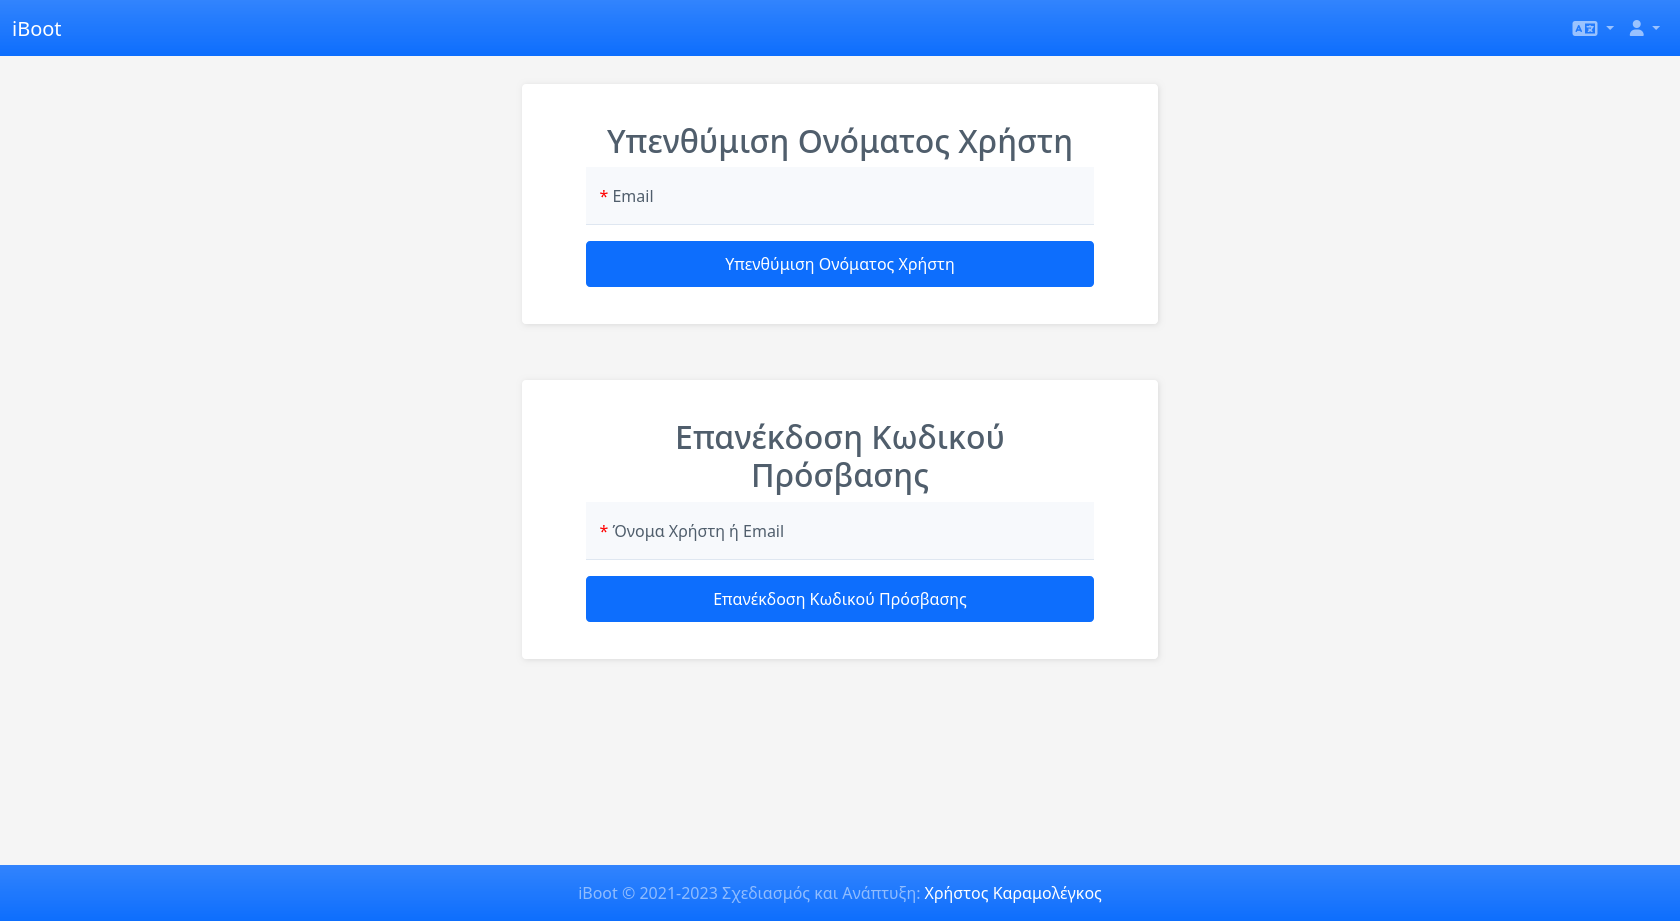
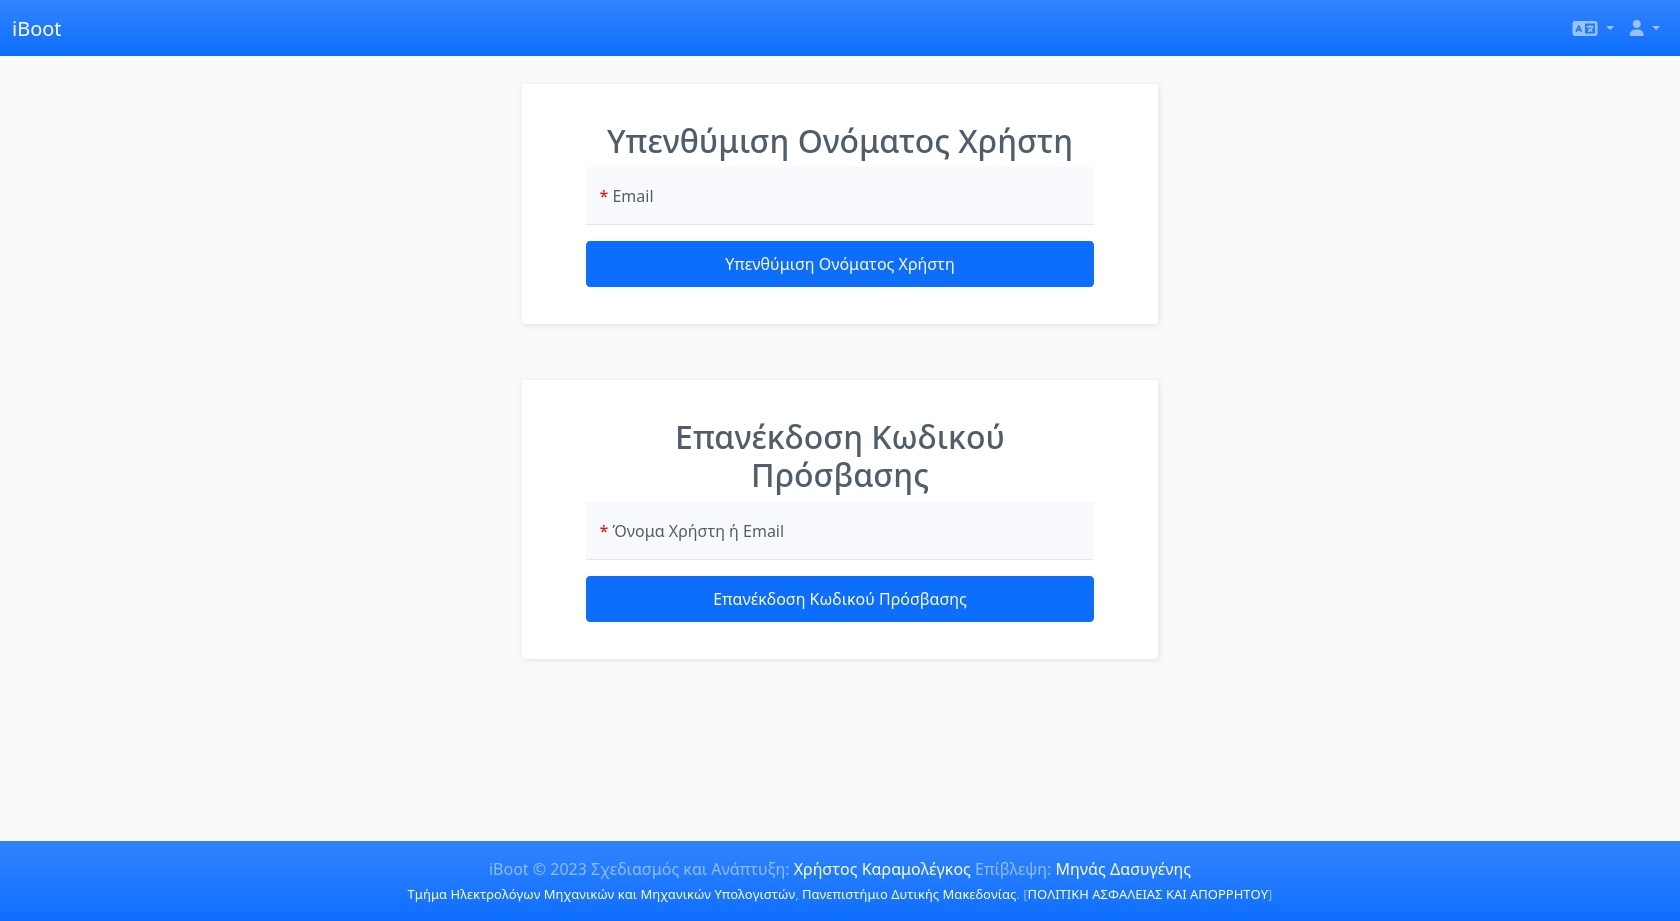
Retake screenshots because of footer update
Also add guest navbar

Changed region(s): [[0.0, 0.9121, 1.0, 1.0]]

diff --git a/Chapters/4-Website-User-Interface.tex b/Chapters/4-Website-User-Interface.tex
@@ -72,7 +72,13 @@
 	\label{fig:iBoot_nav_user}
 \end{figure}
 
-Οι επιλογές του αριστερού τμήματος της μπάρας πλοήγησης απουσιάζουν εντελώς όταν ο χρήστης είναι μη αυθεντικοποιημένος επισκέπτης. Εκείνος δηλαδή βλέπει μόνο το όνομα της εφαρμογής στο αριστερό μέρος της μπάρας πλοήγησης και στο δεξί μέρος της τον επιλογέα γλώσσας της εφαρμογής και την ομάδα επιλογών για πραγματοποίηση σύνδεσης και εγγραφής (αν αυτή είναι ενεργοποιημένη ως δυνατότητα του συστήματος).
+Οι επιλογές του αριστερού τμήματος της μπάρας πλοήγησης απουσιάζουν εντελώς όταν ο χρήστης είναι μη αυθεντικοποιημένος επισκέπτης, όπως φαίνεται στο σχήμα \ref{fig:iBoot_nav_guest}. Εκείνος δηλαδή βλέπει μόνο το όνομα της εφαρμογής στο αριστερό μέρος της μπάρας πλοήγησης και στο δεξί μέρος της τον επιλογέα γλώσσας της εφαρμογής και την ομάδα επιλογών για πραγματοποίηση σύνδεσης και εγγραφής (αν αυτή είναι ενεργοποιημένη ως δυνατότητα του συστήματος).
+\begin{figure}[ht]
+	\centering
+	\includegraphics[scale=0.25]{iBoot-nav_guest.png}
+	\caption{iBoot - Μενού Πλοήγησης Επισκέπτη}
+	\label{fig:iBoot_nav_guest}
+\end{figure}
 \FloatBarrier
 
 \subsection{Υπολογιστές}
